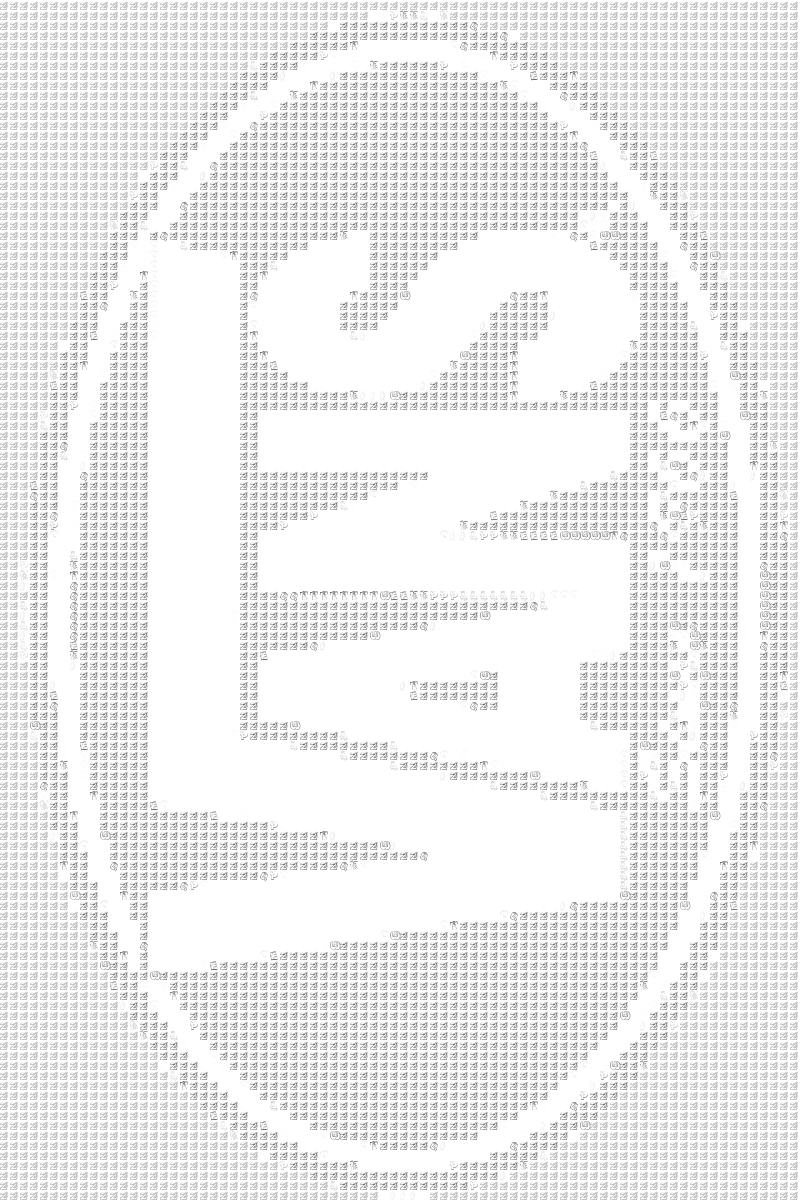
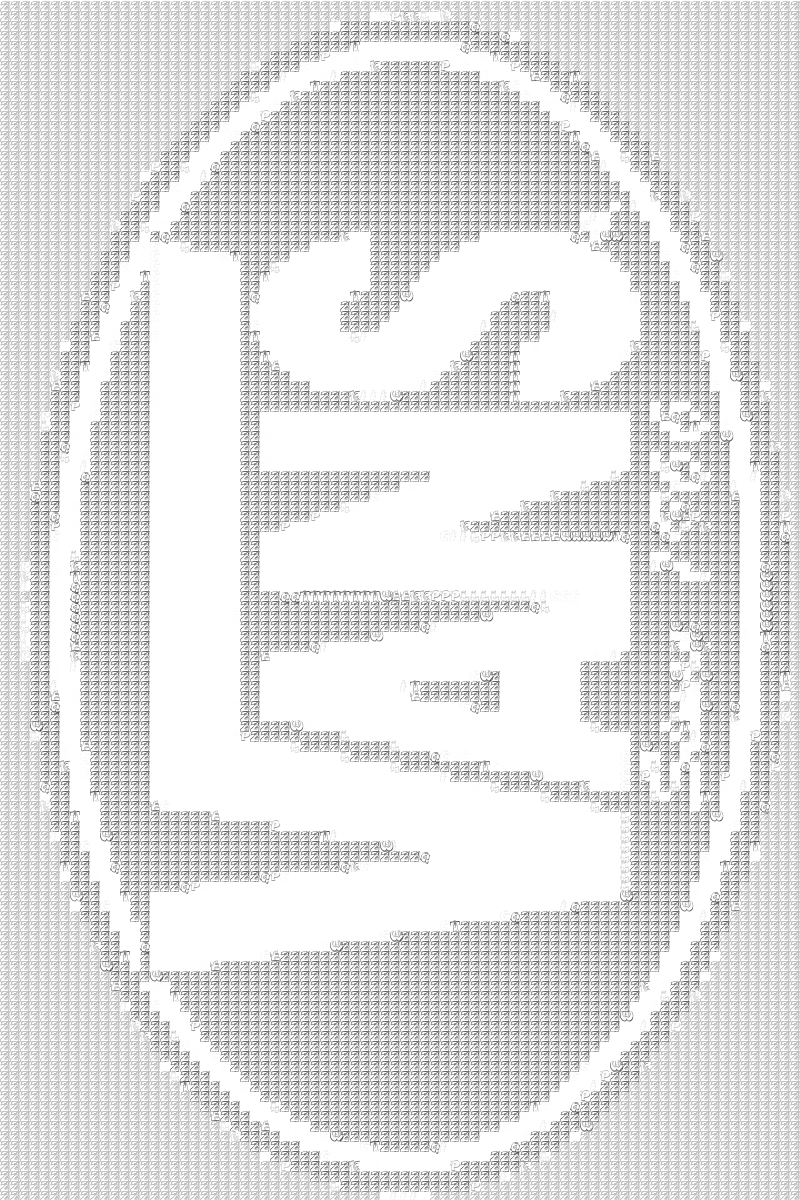
fixed command line stuff

diff --git a/Assignments/A05/ascii_art.py b/Assignments/A05/ascii_art.py
@@ -69,9 +69,9 @@ def resize(img,width):
 
 if __name__=='__main__':
     # picture to print
-    path = 'vans.jpg'
+    path = str(sys.argv[1])
     #cahracters and color values
-    Ascii,colors = img_to_ascii(path="vans.jpg",width=800)
+    Ascii,colors = img_to_ascii(path=path,width=800)
 
     hsize = 1200
     width = 800
@@ -82,7 +82,7 @@ if __name__=='__main__':
     newImg = Image.new('RGBA', (800, 1200), (255,255,255,255))
 
     # Open a TTF file and specify the font size.
-    fnt = ImageFont.truetype('caricature.ttf', 14)
+    fnt = ImageFont.truetype(str(sys.argv[3]), int(sys.argv[4]))
 
     # get a drawing context for your new image
     drawOnMe = ImageDraw.Draw(newImg)
@@ -106,4 +106,4 @@ if __name__=='__main__':
     newImg.show()
 
     # Save the image.
-    newImg.save('output.png')
+    newImg.save(str(sys.argv[2]))
